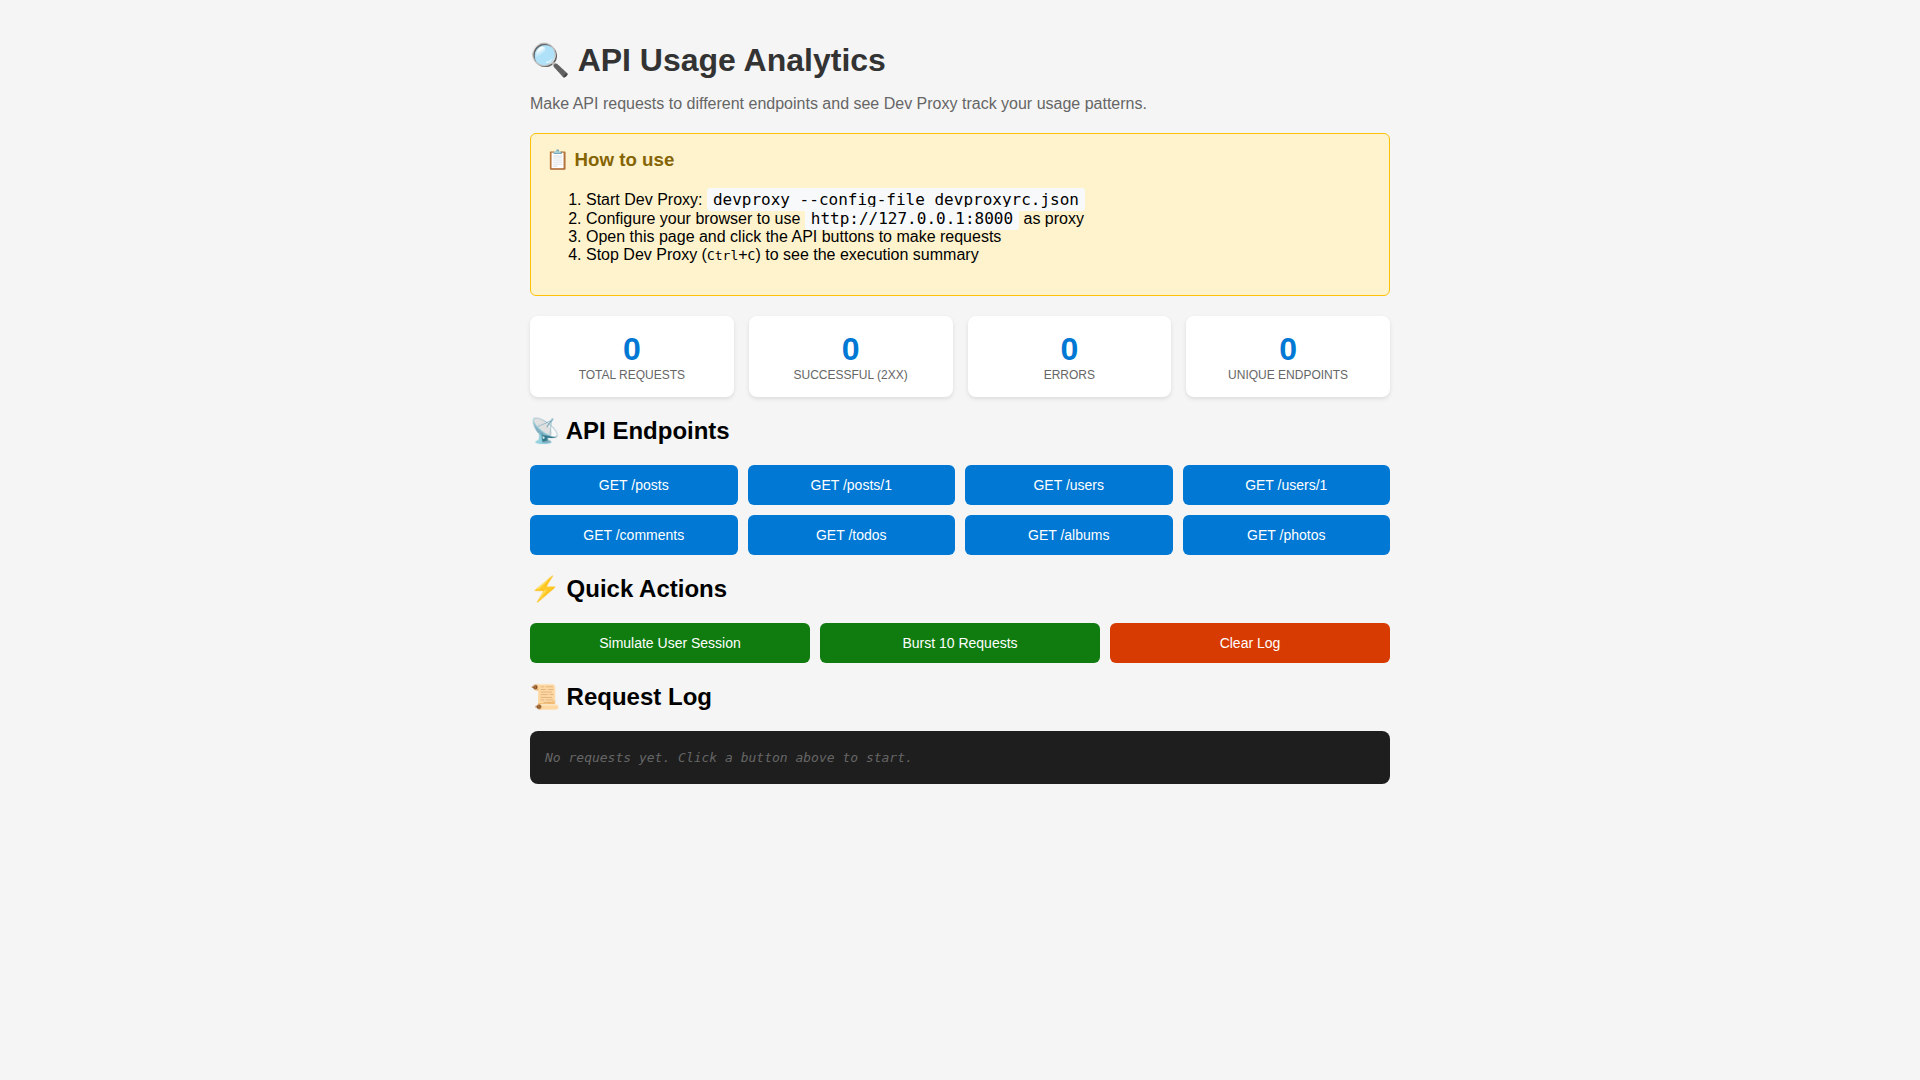
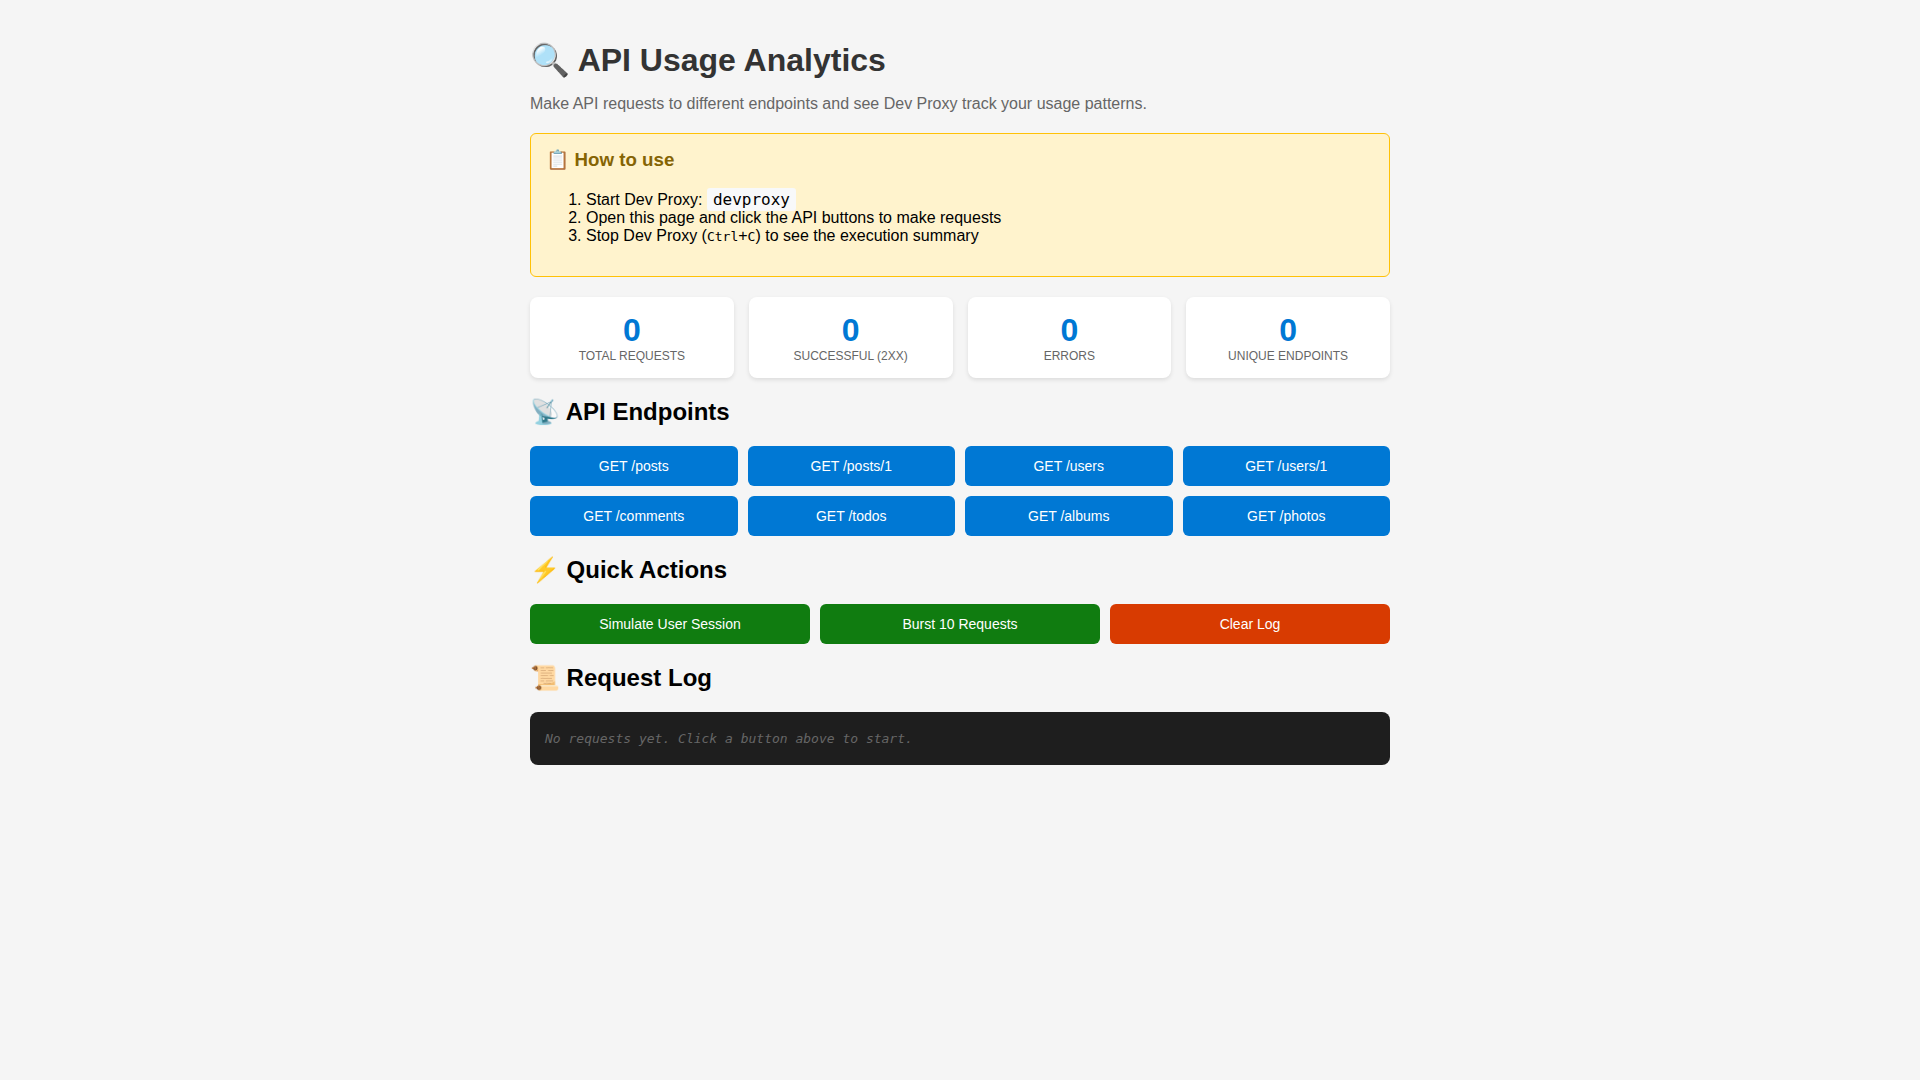
Update screenshot and remove browser proxy instruction

diff --git a/samples/api-usage-analytics/index.html b/samples/api-usage-analytics/index.html
@@ -151,7 +151,6 @@
     <h3>📋 How to use</h3>
     <ol>
       <li>Start Dev Proxy: <code>devproxy</code></li>
-      <li>Configure your browser to use <code>http://127.0.0.1:8000</code> as proxy</li>
       <li>Open this page and click the API buttons to make requests</li>
       <li>Stop Dev Proxy (<kbd>Ctrl</kbd>+<kbd>C</kbd>) to see the execution summary</li>
     </ol>

diff --git a/samples/api-usage-analytics/README.md b/samples/api-usage-analytics/README.md
@@ -33,7 +33,7 @@ Version|Date|Comments
 - Navigate to the sample folder: `cd samples/api-usage-analytics`
 - Run `npm install` to install dependencies
 - Run `npm start` to start Dev Proxy and the web server
-- Open http://localhost:3000 in your browser (configure browser to use Dev Proxy at `http://127.0.0.1:8000`)
+- Open http://localhost:3000 in your browser
 - Click the API buttons to make requests and see the usage tracked in real-time
 - Use "Simulate User Session" to generate a realistic browsing pattern
 - Use "Burst 10 Requests" to test rapid request tracking
